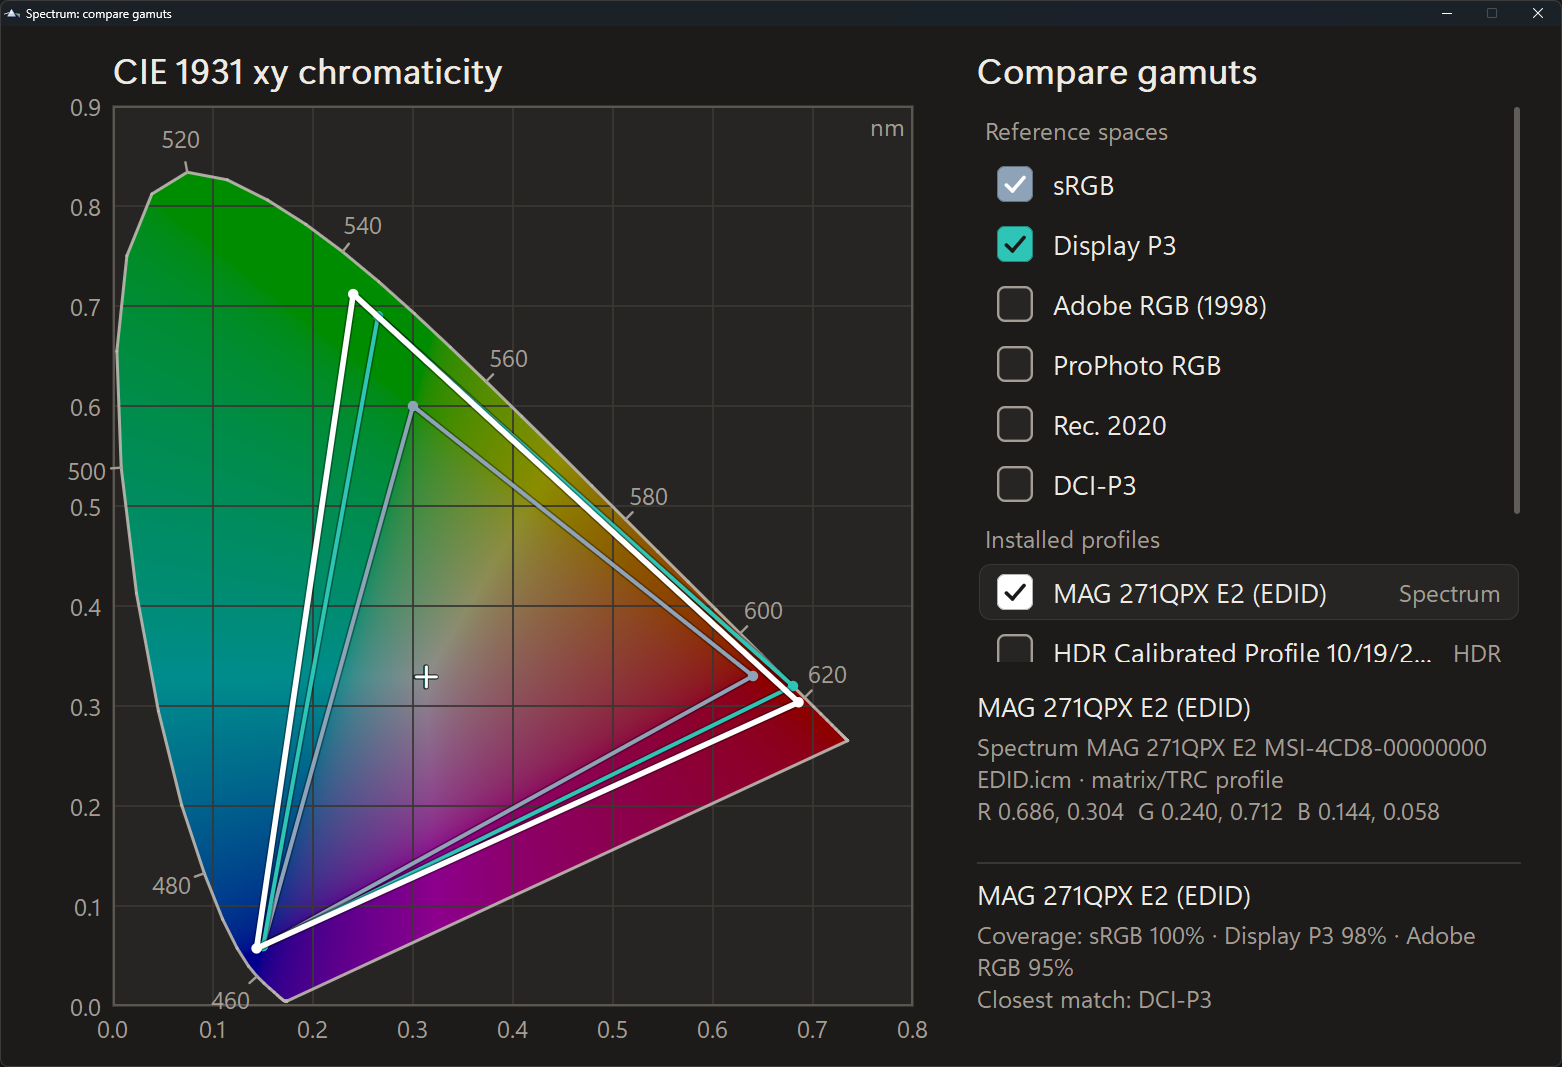
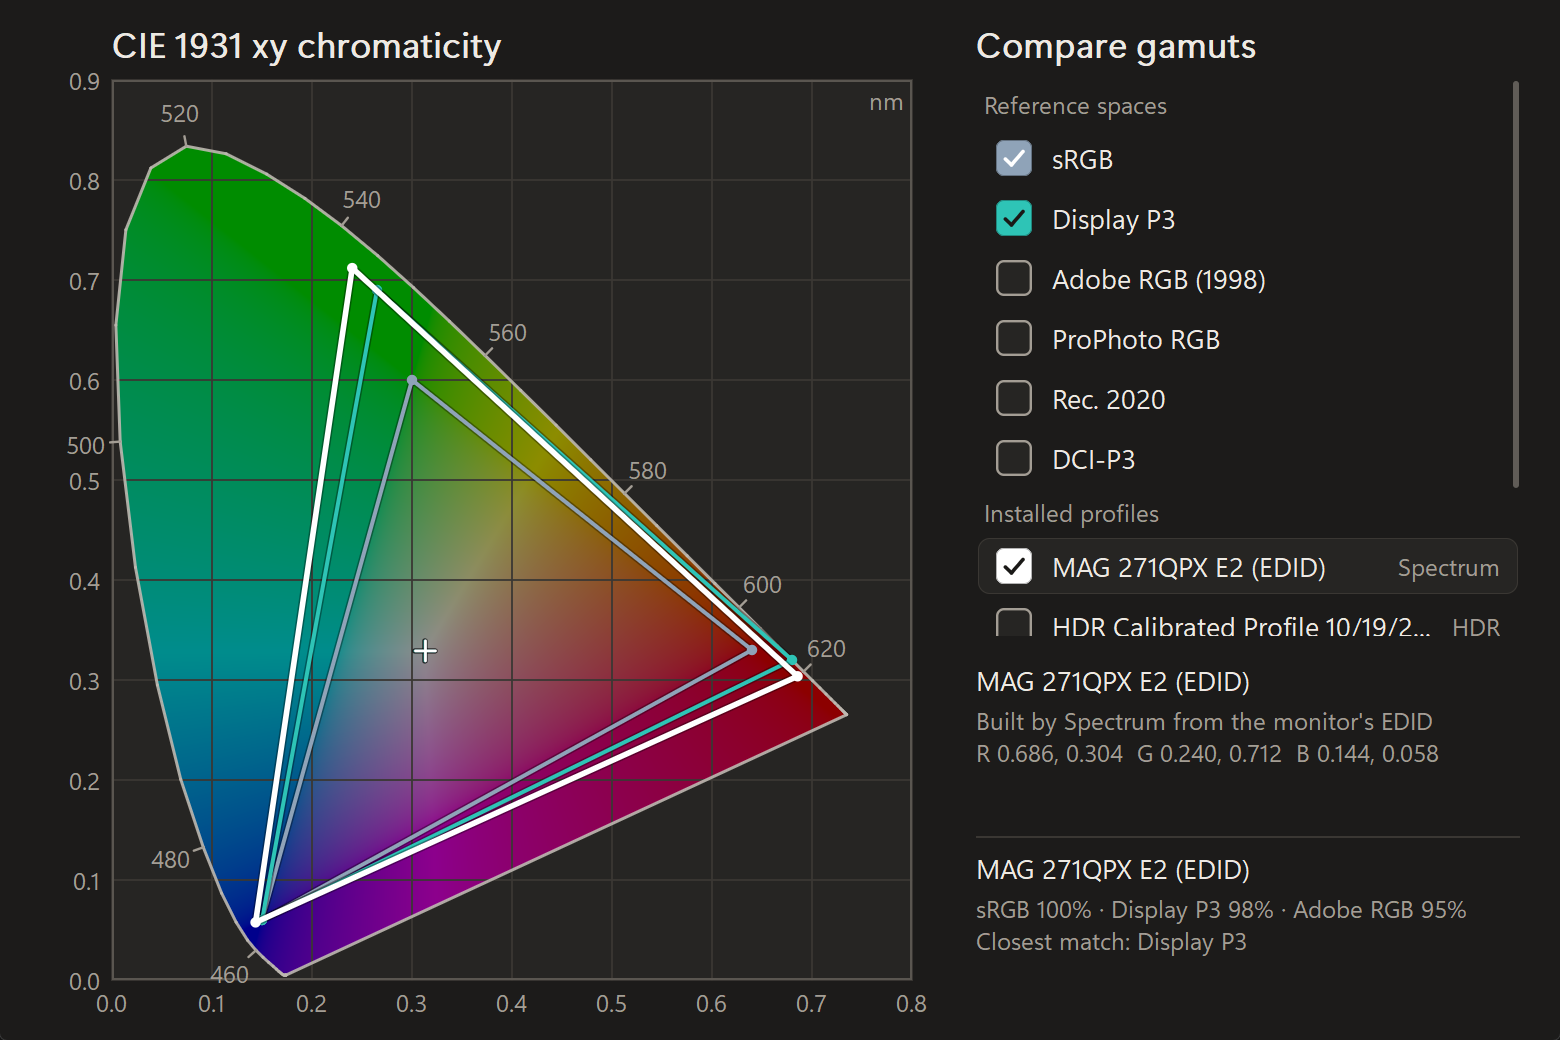
Gamut window: tie-break and wrapping; client-area 2x captures

diff --git a/src/ui/gamut_window.rs b/src/ui/gamut_window.rs
@@ -219,7 +219,9 @@ fn build_entries(selected_file: Option<&str>) -> (Vec<Entry>, Option<usize>) {
             } else {
                 "not plottable".to_string()
             },
-            detail: if plottable {
+            detail: if plottable && file.starts_with("Spectrum") && file.ends_with("EDID.icm") {
+                "Built by Spectrum from the monitor's EDID".to_string()
+            } else if plottable {
                 format!("{file} \u{b7} matrix/TRC profile")
             } else {
                 format!("{file} \u{b7} LUT-based profile, no triangle to plot")
@@ -426,23 +428,18 @@ impl Gamut {
             Some((i, p)) => {
                 let cov =
                     |idx: usize| (math_coverage(&p, &STANDARD_SPACES[idx].prims) * 100.0).round() as i32;
-                let best = (0..STANDARD_SPACES.len())
-                    .max_by(|&a, &b| {
-                        math_iou(&p, &STANDARD_SPACES[a].prims)
-                            .partial_cmp(&math_iou(&p, &STANDARD_SPACES[b].prims))
-                            .unwrap_or(std::cmp::Ordering::Equal)
-                    })
-                    .unwrap_or(0);
+                let best = closest_space(&p);
+                // No-break spaces inside each "Name NN%" unit: a line may only break between units.
+                let unit = |idx: usize| {
+                    format!("{} {}%", short_name(STANDARD_SPACES[idx].name), cov(idx)).replace(' ', "\u{a0}")
+                };
                 (
                     self.entries[i].name.clone(),
                     format!(
-                        "Coverage: {} {}% \u{b7} {} {}% \u{b7} {} {}%\nClosest match: {}",
-                        short_name(STANDARD_SPACES[0].name),
-                        cov(0),
-                        short_name(STANDARD_SPACES[1].name),
-                        cov(1),
-                        short_name(STANDARD_SPACES[2].name),
-                        cov(2),
+                        "{} \u{b7} {} \u{b7} {}\nClosest match: {}",
+                        unit(0),
+                        unit(1),
+                        unit(2),
                         short_name(STANDARD_SPACES[best].name),
                     ),
                 )
@@ -806,6 +803,23 @@ impl Gamut {
 
 fn xy_rgb8(x: f64, y: f64) -> [u8; 3] {
     color::xyz_to_srgb8(color::xy_to_xyz(Xy { x, y }, 1.0))
+}
+
+/// Index of the reference space closest to `p`: highest overlap (IoU); spaces within 0.005 of the best
+/// (Display P3 and DCI-P3 share primaries) are separated by the white-point distance.
+fn closest_space(p: &Primaries) -> usize {
+    let ious: Vec<f64> = STANDARD_SPACES.iter().map(|s| math_iou(p, &s.prims)).collect();
+    let top = ious.iter().cloned().fold(f64::MIN, f64::max);
+    let dist =
+        |s: &color::StandardSpace| ((p.w.x - s.prims.w.x).powi(2) + (p.w.y - s.prims.w.y).powi(2)).sqrt();
+    (0..STANDARD_SPACES.len())
+        .filter(|&i| ious[i] >= top - 0.005)
+        .min_by(|&a, &b| {
+            dist(&STANDARD_SPACES[a])
+                .partial_cmp(&dist(&STANDARD_SPACES[b]))
+                .unwrap_or(std::cmp::Ordering::Equal)
+        })
+        .unwrap_or(0)
 }
 
 fn math_coverage(a: &Primaries, r: &Primaries) -> f64 {
@@ -1212,6 +1226,24 @@ mod tests {
     fn shortens_names() {
         assert_eq!(short_name("Adobe RGB (1998)"), "Adobe RGB");
         assert_eq!(short_name("sRGB"), "sRGB");
+    }
+
+    #[test]
+    fn closest_match_breaks_primary_ties_by_white_point() {
+        // The MAG 271QPX E2 EDID: Display P3 primaries with a near-D65 white. DCI-P3 shares the primaries
+        // (a tie on overlap), but its white is far greener, so Display P3 must win.
+        let xy = |x, y| Xy { x, y };
+        let mag = Primaries {
+            r: xy(0.6855, 0.3037),
+            g: xy(0.2402, 0.7119),
+            b: xy(0.1436, 0.0576),
+            w: xy(0.3135, 0.3291),
+        };
+        assert_eq!(STANDARD_SPACES[closest_space(&mag)].name, "Display P3");
+        let p3 = STANDARD_SPACES[1].prims;
+        assert_eq!(STANDARD_SPACES[closest_space(&p3)].name, "Display P3");
+        let dci = STANDARD_SPACES[5].prims;
+        assert_eq!(STANDARD_SPACES[closest_space(&dci)].name, "DCI-P3");
     }
 
     #[test]
